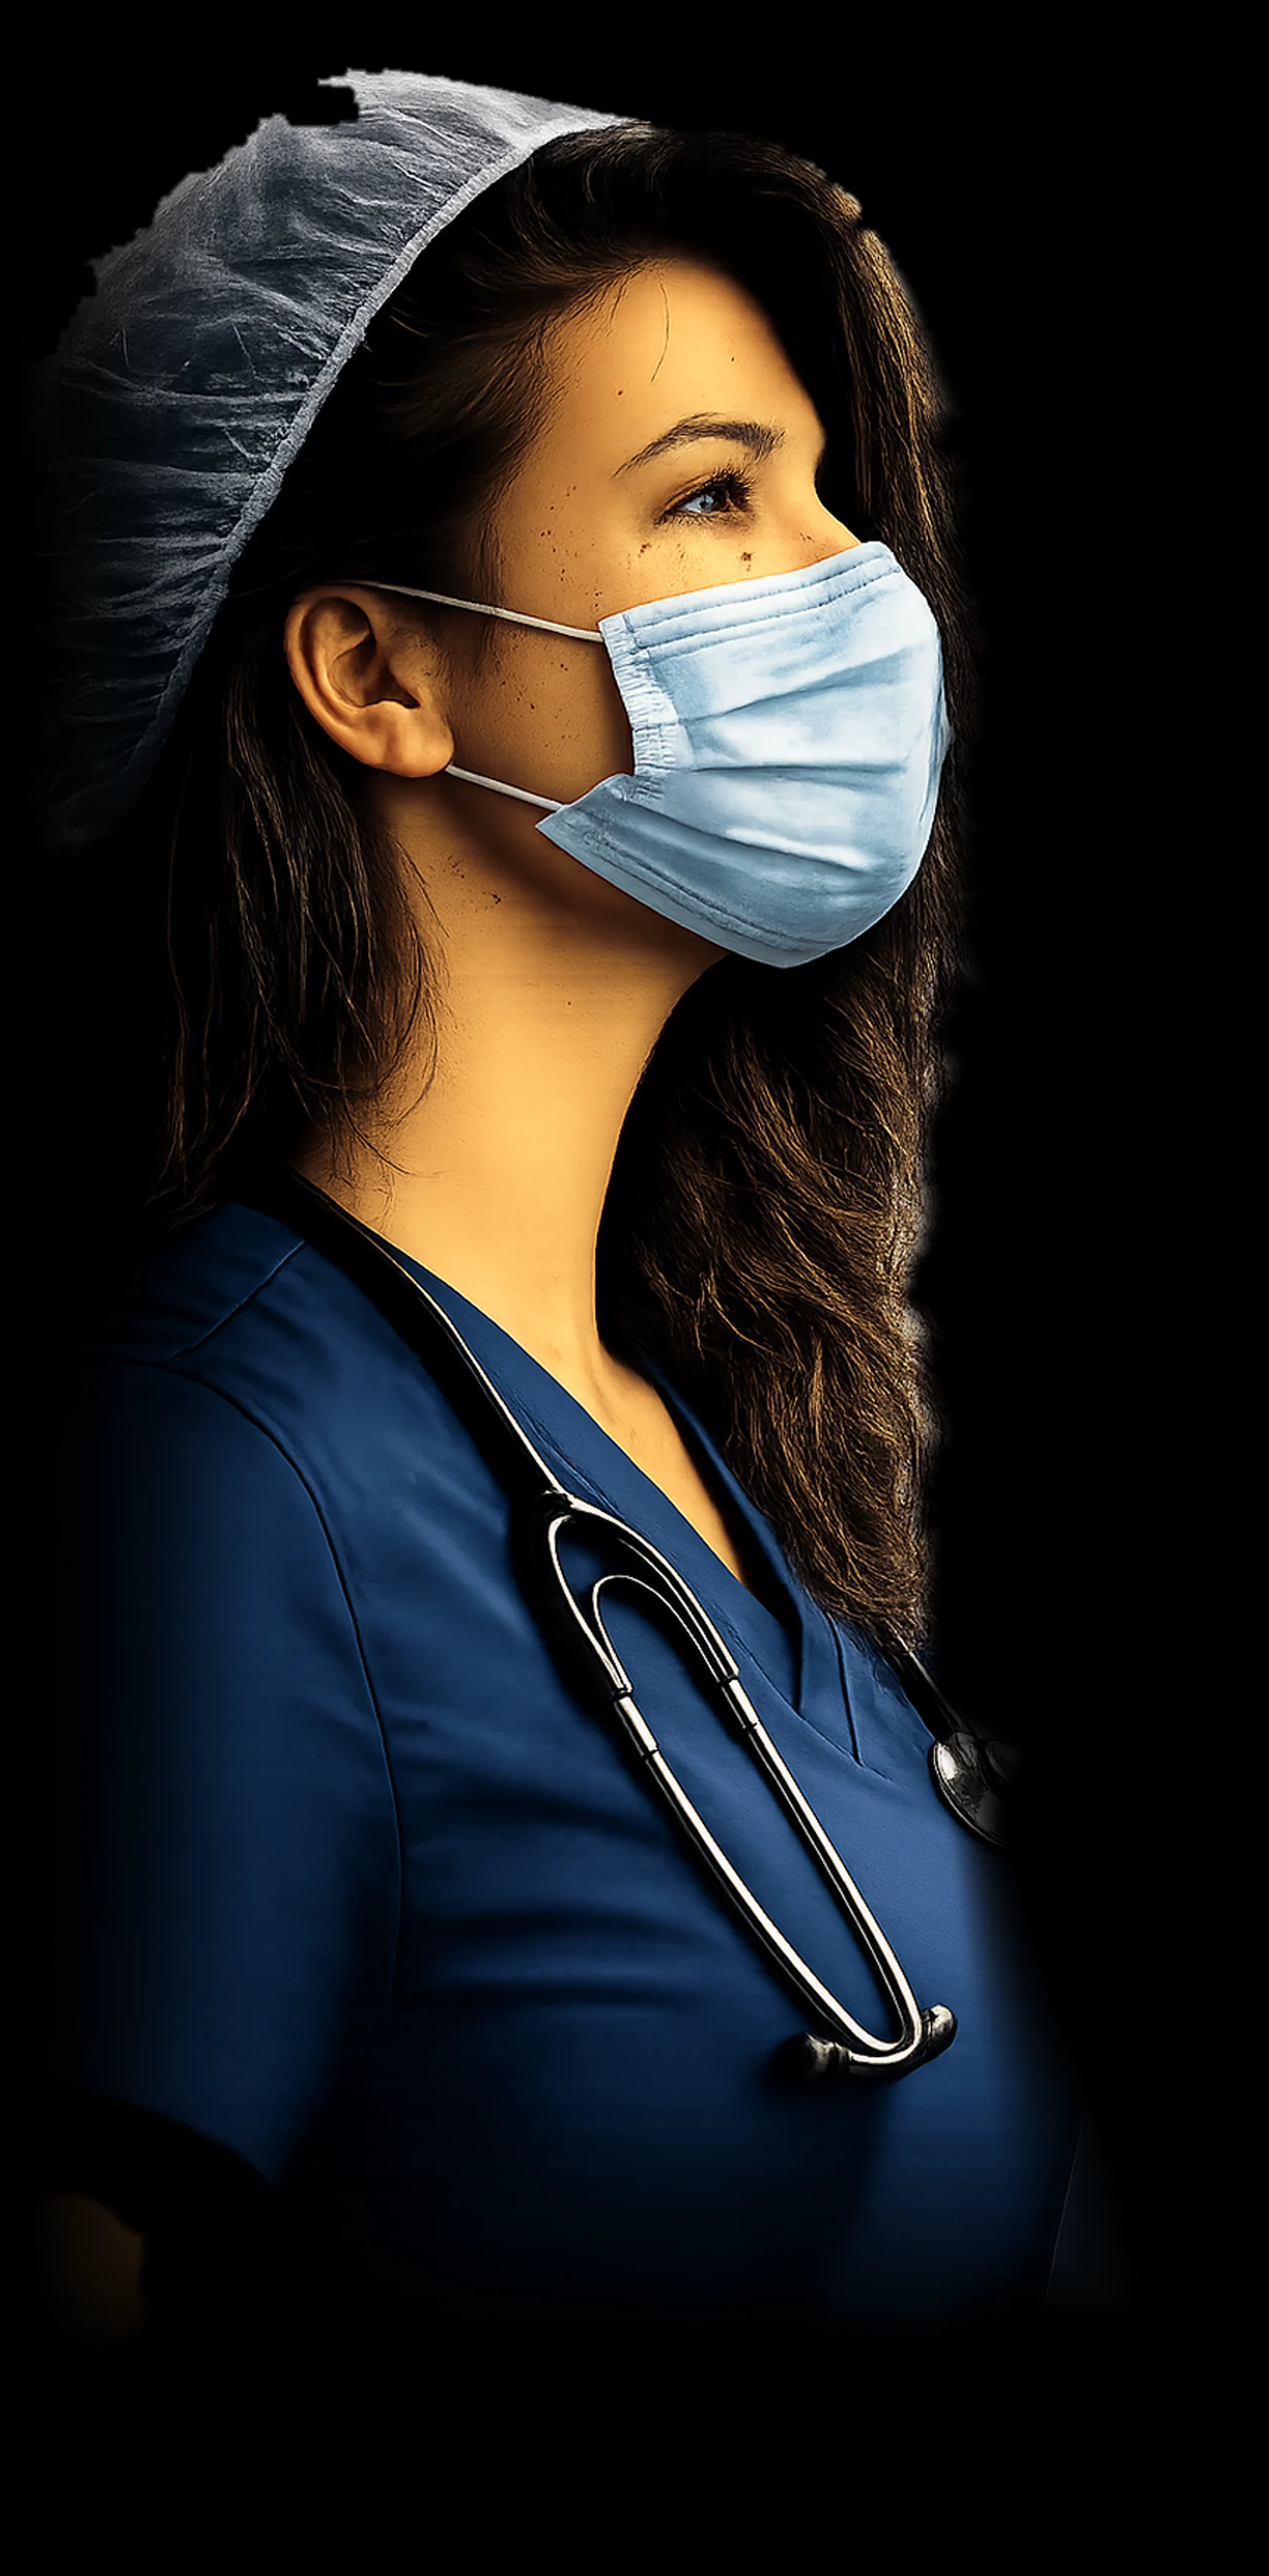
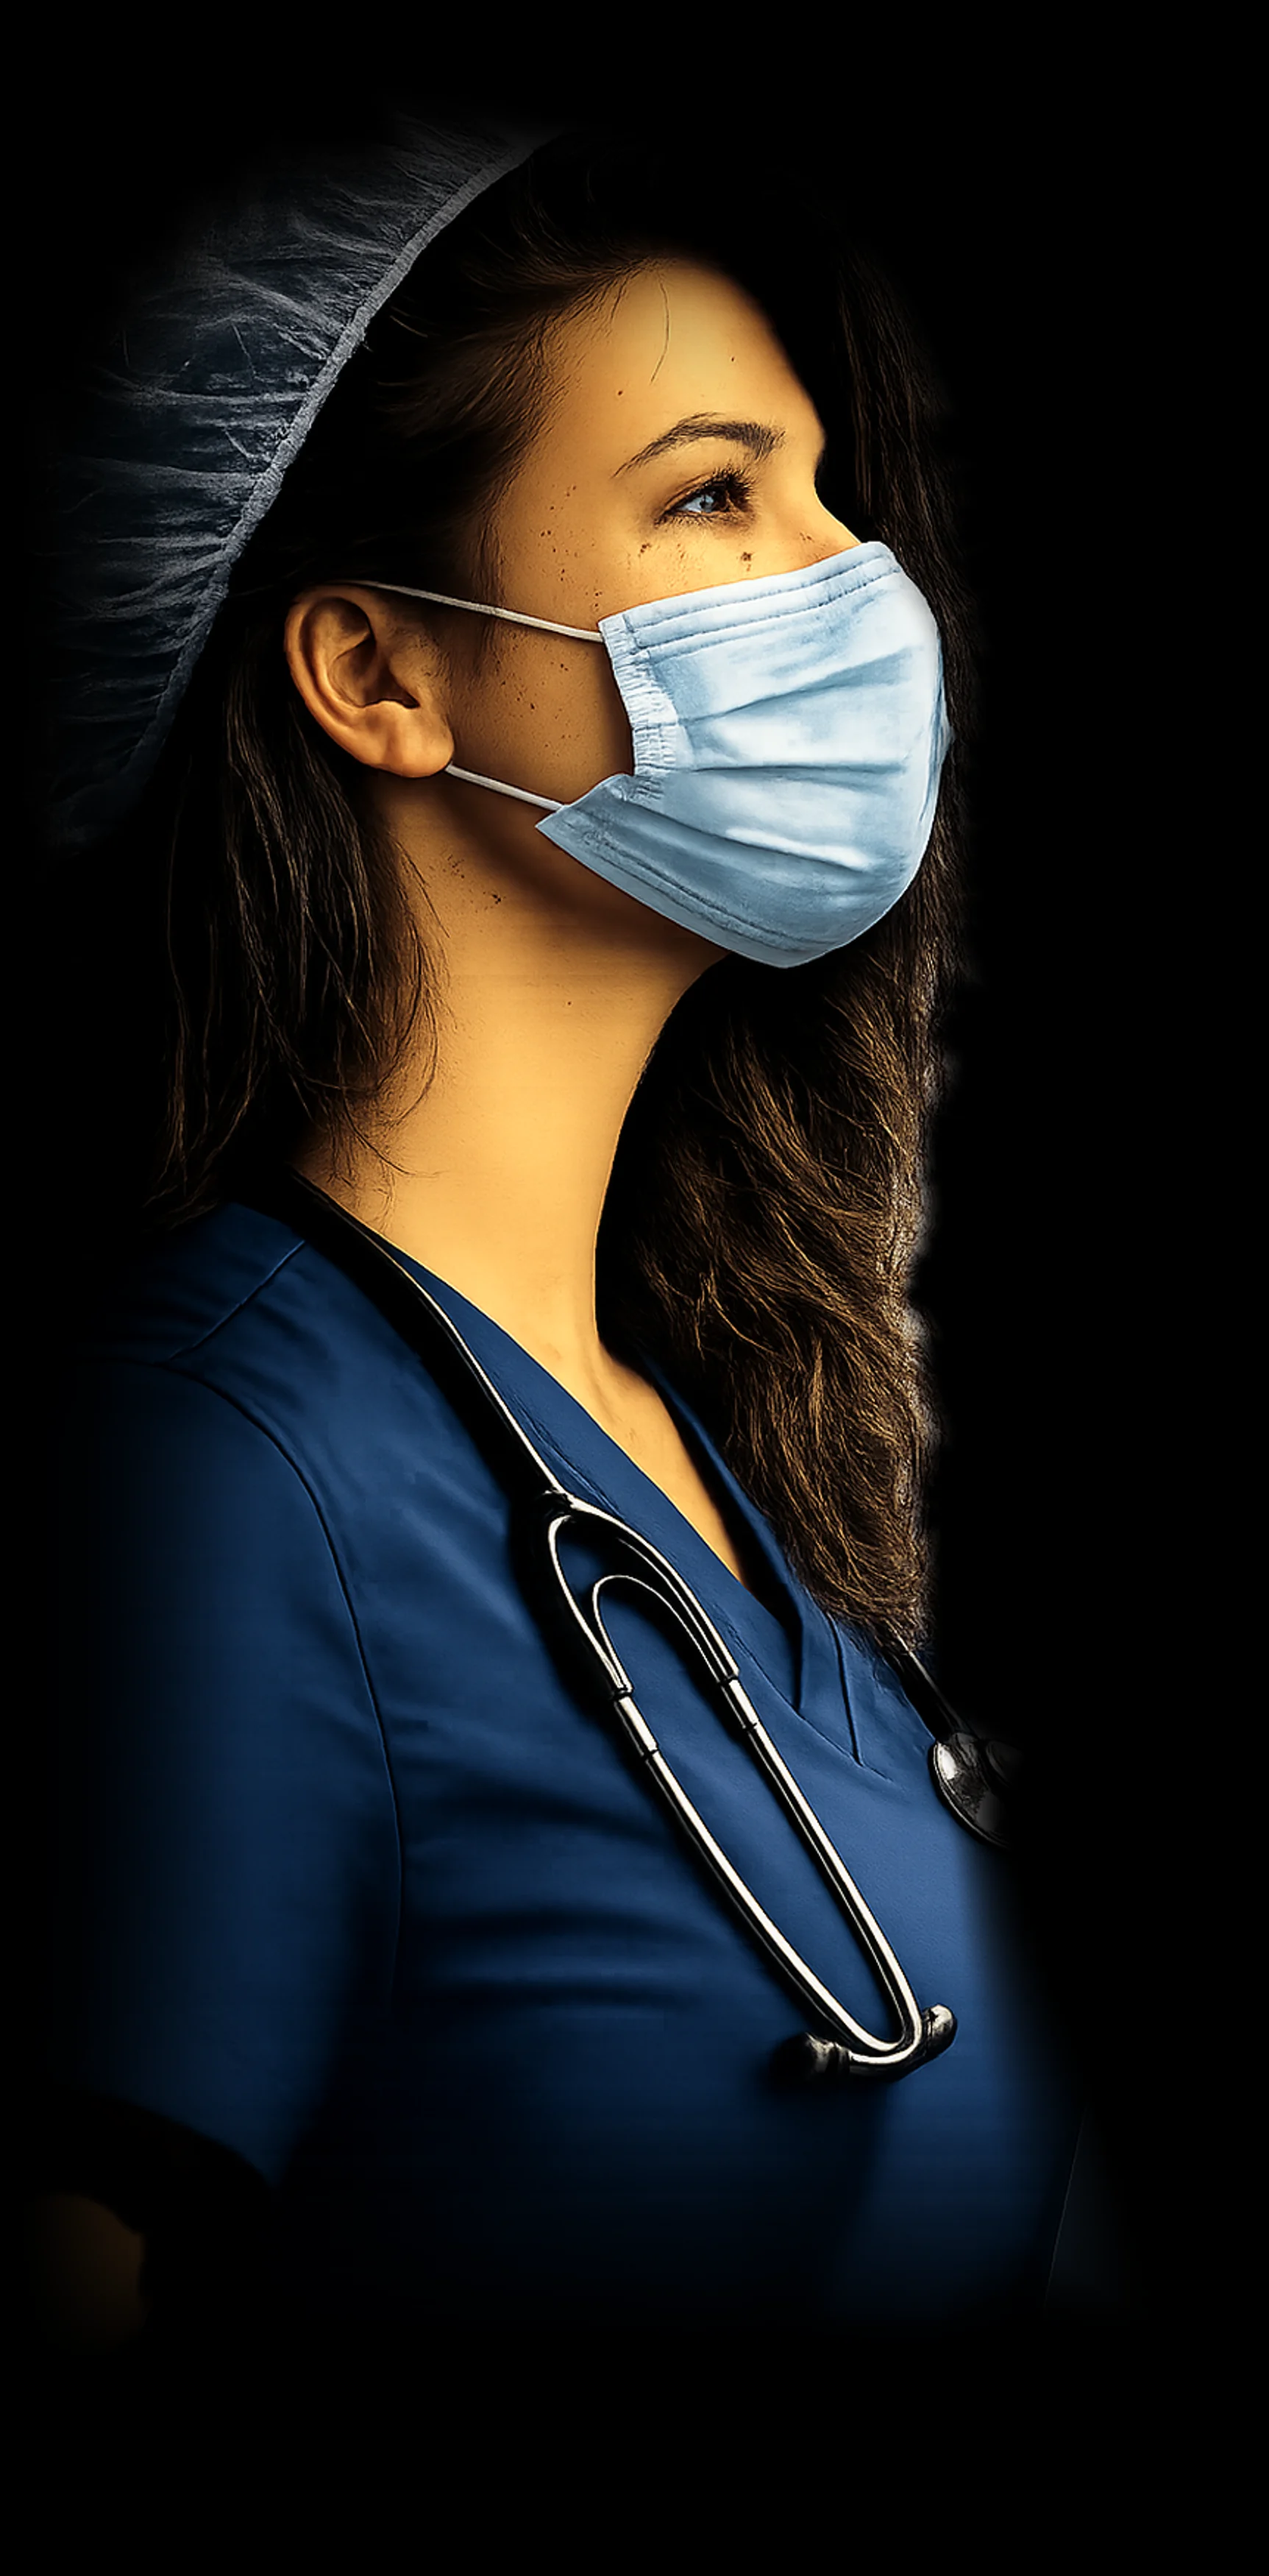
hero: fade the cap's top edge too
The last cutout. The cap's top is bright, so the darkness rule handed it a
4px feather, and 4px on a translucent cap against a lit plate is the whole
cutout look in one object.

A vertical border fade cannot fix it. Dimming enough to hide the contour
also dims the forehead and the eye, because a border fade cannot tell an
edge from an interior. The feather can — it only ever acts within F pixels
of the boundary — so it now keys to vertical position as well as
horizontal: ~85px over the cap, tapering out by source y=620. The face
sits ~190px clear of any edge and comes through untouched. A 300px top
falloff on the canvas sits under it so the head emerges out of the dark
instead of starting at a line, which is what the frame it dissolves with
does with its own hair.

Measured rather than eyeballed: brightness in the band just inside the
silhouette fell from 208 to 145 at p99.

Also: np.maximum.reduce stacks its arguments before reducing and cannot
broadcast (H,W), (1,W) and (H,1) together. Pairwise np.maximum can.

Changed region(s): [[0.0614, 0.0, 0.5223, 0.1246], [0.6145, 0.0623, 0.7681, 0.2491], [0.4301, 0.0934, 0.6145, 0.1557]]

diff --git a/landing/public/assets/hero/CREDITS.md b/landing/public/assets/hero/CREDITS.md
@@ -154,6 +154,21 @@ The feather is now keyed to position on that side, not brightness: past her jaw
 everything is hair or plate pretending to be hair, and neither wants a crisp
 edge. Jaw, cap and mask sit left of the ramp and keep theirs.
 
+**The cap, third and last.** Its top edge was the remaining cutout: bright, so
+the darkness rule gave it 4px, and 4px on a translucent cap against a lit plate
+is the whole cutout look in one object. A vertical border fade cannot fix it —
+dimming enough to hide the contour also dims the forehead and the eye, because a
+border fade cannot tell an edge from an interior. The feather can, since it only
+ever acts within F pixels of the boundary. So the feather is now keyed to
+vertical position as well: ~85px over the cap, tapering out by source y=620,
+with the face ~190px clear of any edge and therefore untouched. A 300px top
+falloff on the canvas sits under it so the head emerges out of the dark rather
+than starting at a line, which is what the frame it dissolves with does.
+
+Measured: brightness in the band just inside the silhouette fell from 208 to 145
+at p99. `np.maximum.reduce` cannot broadcast (H,W), (1,W) and (H,1) together —
+pairwise `np.maximum` can.
+
 **Consent, unchanged and still unresolved.** This frame depicts an identifiable
 person presented as a healthcare professional, and no model release accompanies
 it. Flagged, not cleared.
